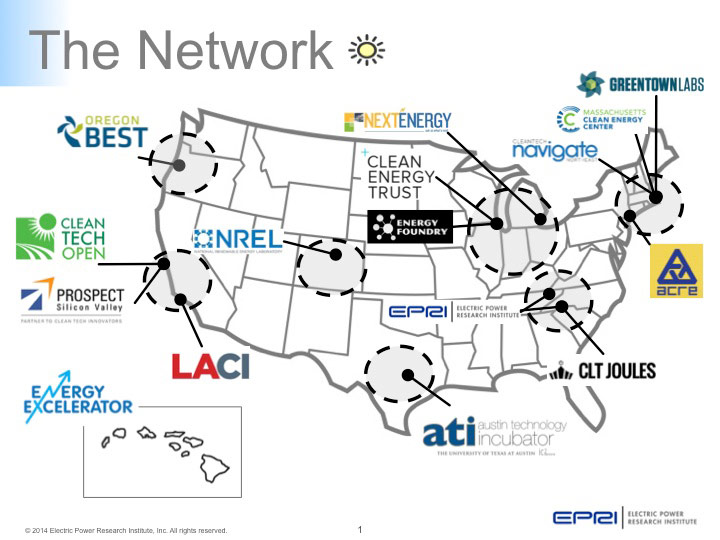
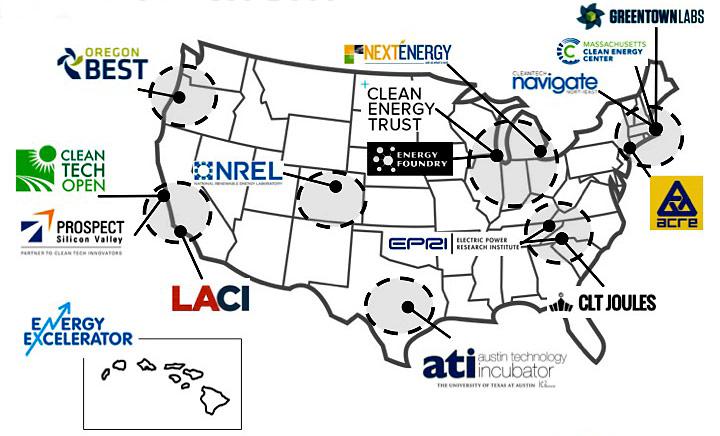
added 2 scripts, tried changing image paths on lightboxcss and added image map to about pg.

Changed region(s): [[0.0, 0.0, 0.9778, 0.8945], [0.0306, 0.6858, 0.3361, 1.0], [0.7639, 0.9243, 0.9778, 0.9839]]

diff --git a/about.html b/about.html
@@ -12,7 +12,10 @@
     <link href="client/css/main.css" rel="stylesheet">
     <link href="client/css/responsive.css" rel="stylesheet">
     <link href="client/css/custom.css" rel="stylesheet">
-
+<!--[if lte IE 8]>
+    <script type="text/javascript" src="client/js/ie8.polyfil.min.js"></script>
+<![endif]-->
+    
     <!--[if lt IE 9]>
         <script src="client/js/html5shiv.js"></script>
         <script src="client/js/respond.min.js"></script>
@@ -99,7 +102,25 @@
 
                     <p>The network includes members from all over the country who attended our <a href="http://incubatenergy.org/blog-workshop.html">February 2015 kickoff workshop</a> in Washington D.C., including the <a href="http://ati.utexas.edu/">Austin Technology Incubator (ATI)</a>, <a href="http://www.cleanenergytrust.org/">Clean Energy Trust (CET)</a> in Chicago, <a href="http://cltjoules.com/">CLT Joules</a> in Charlotte, the <a href="http://www.energyexcelerator.com/">Energy Excelerator</a> from Hawaii, <a href="http://greentownlabs.org/">Greentown Labs</a> from Boston, the <a href="http://laincubator.org/">Los Angeles Cleantech Incubator (LACI)</a> in California, <a href="http://www.nextenergy.org/">NextEnergy</a> in Detroit, <a href="http://www.nycacre.com/">NYC Acre</a> in the northeast, <a href="http://oregonbest.org/">Oregon BEST</a> in the Pacific Northwest, and <a href="http://prospectsv.org/">Prospect Silicon Valley</a> in the Bay Area. </p>
                 <div class="col-sm-12" style="margin-bottom:2em;">
-                    <img src="assets/images/map-incubatenergy-network.jpg" class="img-responsive center-block" alt="Map of United States indicating locations of network locations.">
+                    <img src="assets/images/map-incubatenergy-network.jpg" alt="Map of United States indicating locations of network locations." usemap="#Map" class="img-responsive center-block">
+                    <map name="Map">
+                      <area shape="rect" coords="57,44,187,113" href="http://oregonbest.org/" alt="Oregon Best">
+                      <area shape="rect" coords="14,146,163,197" href="http://www2.cleantechopen.org/" alt="Clean Tech Open">
+                      <area shape="rect" coords="173,222,253,325" href="http://laincubator.org/" alt="LACI">
+                      <area shape="rect" coords="23,300,154,426" href="http://www.energyexcelerator.com/" alt="Energy Excelerator">
+<area shape="rect" coords="185,150,347,195" href="http://www.nrel.gov" alt="NREL">
+<area shape="poly" coords="380,309,424,344,415,352,422,392,574,399,571,353,468,344,424,297,380,308" href="http://ati.utexas.edu/" alt="Austin Technology Incubator">
+<area shape="rect" coords="18,205,155,254" href="http://prospectsv.org/" alt="Prospect Silicon Valley">
+                      <area shape="poly" coords="615,145,646,185,650,230,705,234,705,176,659,172,639,137,616,145" href="http://www.nycacre.com/" alt="ACRE">
+                      <area shape="poly" coords="667,315,545,319,546,288,587,285,557,246,570,234,622,284,657,286,667,315" href="http://cltjoules.com/" alt="CLT Joules">
+                      <area shape="poly" coords="660,95,670,31,713,32,712,4,575,5,575,30,646,30,658,96" href="http://greentownlabs.org/" alt="Greentown Labs">
+                      <area shape="poly" coords="553,34,644,38,646,56,655,116,646,114,625,69,556,67,553,35" href="http://www.masscec.com/" alt="Massachusetts Clean Energy Center">
+                      <area shape="poly" coords="598,74,505,71,504,95,598,103,631,120,634,108,599,74" href="#" alt="Navigate">
+                      <area shape="poly" coords="341,36,453,36,460,62,556,152,527,157,443,73,343,70,341,34" href="http://www.nextenergy.org/" alt="NextEnergy">
+                      <area shape="poly" coords="357,80,424,82,513,162,489,164,432,120,423,134,361,134,362,87" href="http://www.cleanenergytrust.org/" alt="Clean Energy Trust">
+                      <area shape="rect" coords="364,141,456,178" href="http://www.energyfoundry.com/" alt="Energy Foundry">
+                      <area shape="rect" coords="391,216,550,253" href="#" alt="EPRI">
+                  </map>
                 </div>
 
                     <p>The <a href="http://www.necec.org/">New England Clean Energy Council (NECEC)</a> helps coordinate, along with <a href="http://www.masscec.com/">MassCEC</a> in Massachusetts, clean energy  resources in the Northeast. The <a href="http://www2.cleantechopen.org/">Cleantech Open</a> has regional chapters all over the country, and the <a href="http://www.energyfoundry.com/">Energy Foundry</a> in Chicago is a venture capital firm focusing on clean energy investments.</p>
@@ -138,5 +159,12 @@
     <script src="client/js/lightbox.min.js"></script>
     <script src="client/js/wow.min.js"></script>
     <script src="client/js/main.js"></script>
+    <script src="client/js/imageMapResizer.min.js"></script>
+
+	<script type="text/javascript">
+
+		$('map').imageMapResize();
+
+	</script>
 </body>
 </html>

diff --git a/client/js/imageMapResizer.min.js b/client/js/imageMapResizer.min.js
@@ -1,0 +1,8 @@
+/*! Image Map Resizer (imageMapResizer.min.js ) - v0.5.3 - 2015-01-29
+ *  Desc: Resize HTML imageMap to scaled image.
+ *  Copyright: (c) 2015 David J. Bradshaw - dave@bradshaw.net
+ *  License: MIT
+ */
+
+!function(){"use strict";function a(){function a(){function a(a){function c(a){return a*b[1===(d=1-d)?"width":"height"]}var d=0;return a.split(",").map(Number).map(c).map(Math.floor).join(",")}for(var b={width:i.width/j.width,height:i.height/j.height},c=0;g>c;c++)f[c].coords=a(h[c])}function b(){j.onload=function(){(i.width!==j.width||i.height!==j.height)&&a()},j.src=i.src}function c(){function b(){clearTimeout(k),k=setTimeout(a,250)}window.addEventListener?window.addEventListener("resize",b,!1):window.attachEvent&&window.attachEvent("onresize",b)}function d(a){return a.coords.replace(/ *, */g,",").replace(/ +/g,",")}var e=this,f=e.getElementsByTagName("area"),g=f.length,h=Array.prototype.map.call(f,d),i=document.querySelector('img[usemap="#'+e.name+'"]'),j=new Image,k=null;b(),c()}function b(){function b(b){if(!b.tagName)throw new TypeError("Object is not a valid DOM element");if("MAP"!==b.tagName.toUpperCase())throw new TypeError("Expected <MAP> tag, found <"+b.tagName+">.");a.call(b)}return function(a){switch(typeof a){case"undefined":case"string":Array.prototype.forEach.call(document.querySelectorAll(a||"map"),b);break;case"object":b(a);break;default:throw new TypeError("Unexpected data type ("+typeof a+").")}}}"function"==typeof define&&define.amd?define([],b):"object"==typeof exports?module.exports=b():window.imageMapResize=b(),"jQuery"in window&&(jQuery.fn.imageMapResize=function(){return this.filter("map").each(a).end()})}();
+//# sourceMappingURL=imageMapResizer.map

diff --git a/client/css/lightbox.css b/client/css/lightbox.css
@@ -1,6 +1,6 @@
 /* Preload images */
 body:after {
-  content: url(../images/lightbox/close.png) url(../images/lightbox/loading.gif) url(../images/lightbox/prev.png) url(../images/lightbox/next.png);
+  content: url(/assets/images/lightbox/close.png) url(/../assets/images/lightbox/loading.gif) url(/../assets/images/lightbox/prev.png) url(/../assets/images/lightbox/next.png);
   display: none;
 }
 
@@ -79,7 +79,7 @@ body:after {
   width: 32px;
   height: 32px;
   margin: 0 auto;
-  background: url(../images/lightbox/loading.gif) no-repeat;
+  background: url(/../assets/images/lightbox/loading.gif) no-repeat;
 }
 
 .lb-nav {
@@ -110,7 +110,7 @@ body:after {
   width: 34%;
   left: 0;
   float: left;
-  background: url(../images/lightbox/prev.png) left 48% no-repeat;
+  background: url(/../assets/images/lightbox/prev.png) left 48% no-repeat;
   filter: progid:DXImageTransform.Microsoft.Alpha(Opacity=0);
   opacity: 0;
   -webkit-transition: opacity 0.6s;
@@ -128,7 +128,7 @@ body:after {
   width: 64%;
   right: 0;
   float: right;
-  background: url(../images/lightbox/next.png) right 48% no-repeat;
+  background: url(/../assets/images/lightbox/next.png) right 48% no-repeat;
   filter: progid:DXImageTransform.Microsoft.Alpha(Opacity=0);
   opacity: 0;
   -webkit-transition: opacity 0.6s;
@@ -192,7 +192,7 @@ body:after {
   float: right;
   width: 30px;
   height: 30px;
-  background: url(../images/lightbox/close.png) top right no-repeat;
+  background: url(/assets/images/lightbox/close.png) top right no-repeat;
   text-align: right;
   outline: none;
   filter: progid:DXImageTransform.Microsoft.Alpha(Opacity=70);

diff --git a/client/js/ie8.polyfil.min.js b/client/js/ie8.polyfil.min.js
@@ -1,0 +1,2 @@
+!function(){Array.prototype.map||(Array.prototype.map=function(a){"use strict";if(void 0===this||null===this||"function"!=typeof a)throw new TypeError;for(var b=Object(this),c=b.length>>>0,d=new Array(c),e=arguments.length>=2?arguments[1]:void 0,f=0;c>f;f++)f in b&&(d[f]=a.call(e,b[f],f,b));return d}),Array.prototype.forEach||(Array.prototype.forEach=function(a){"use strict";if(void 0===this||null===this||"function"!=typeof a)throw new TypeError;for(var b=Object(this),c=b.length>>>0,d=arguments.length>=2?arguments[1]:void 0,e=0;c>e;e++)e in b&&a.call(d,b[e],e,b)})}();
+//# sourceMappingURL=ie8.polyfil.map
